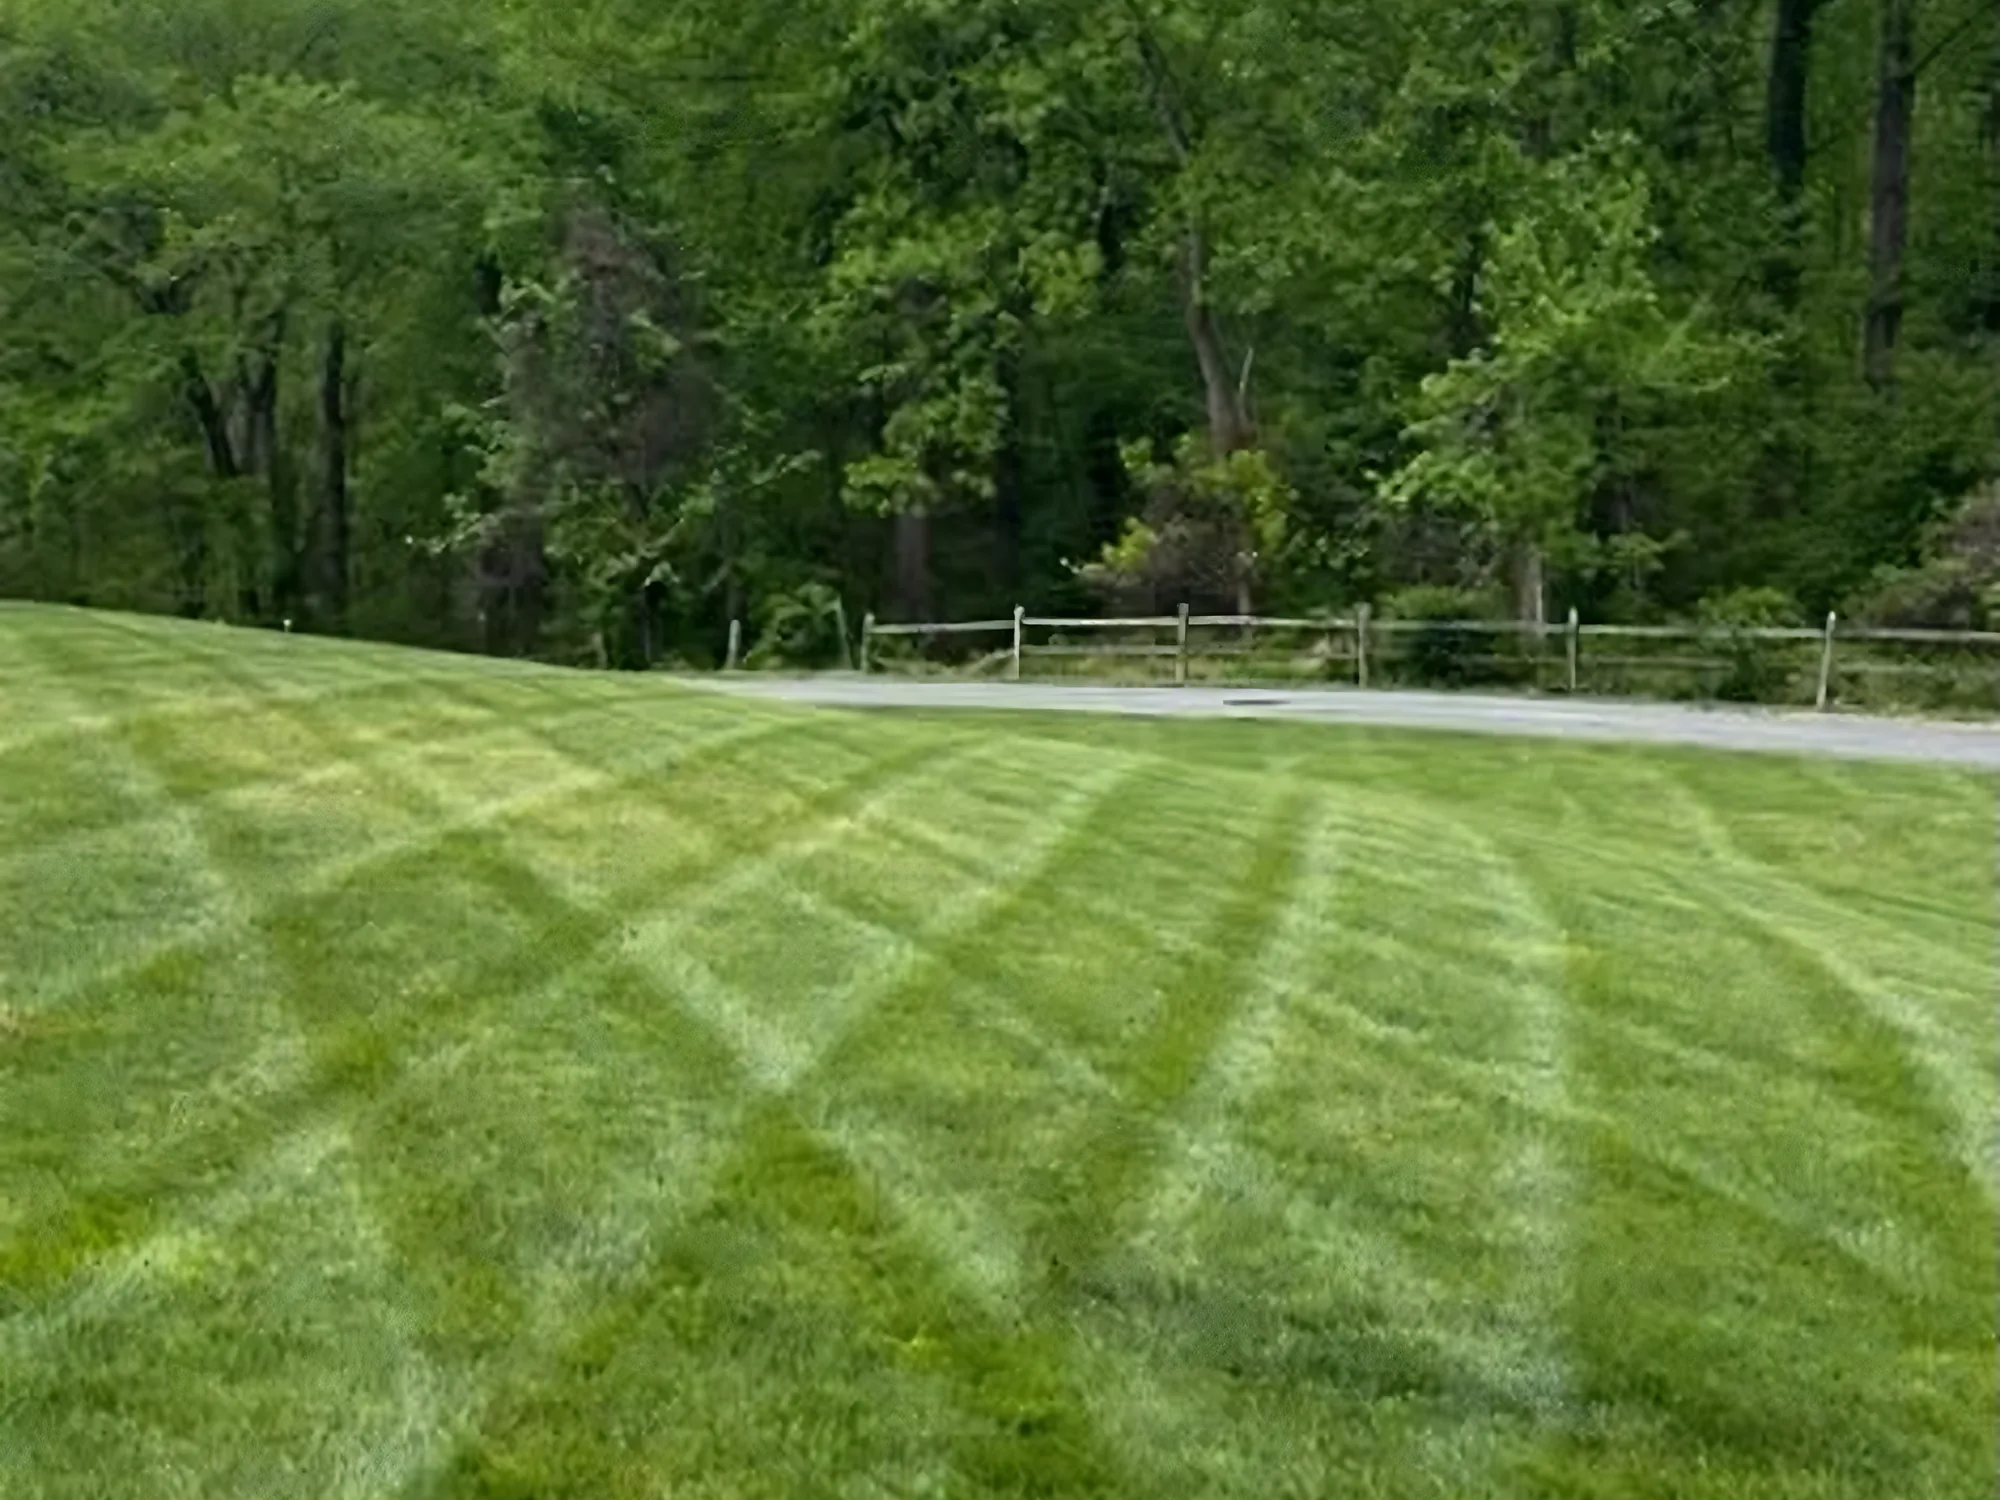
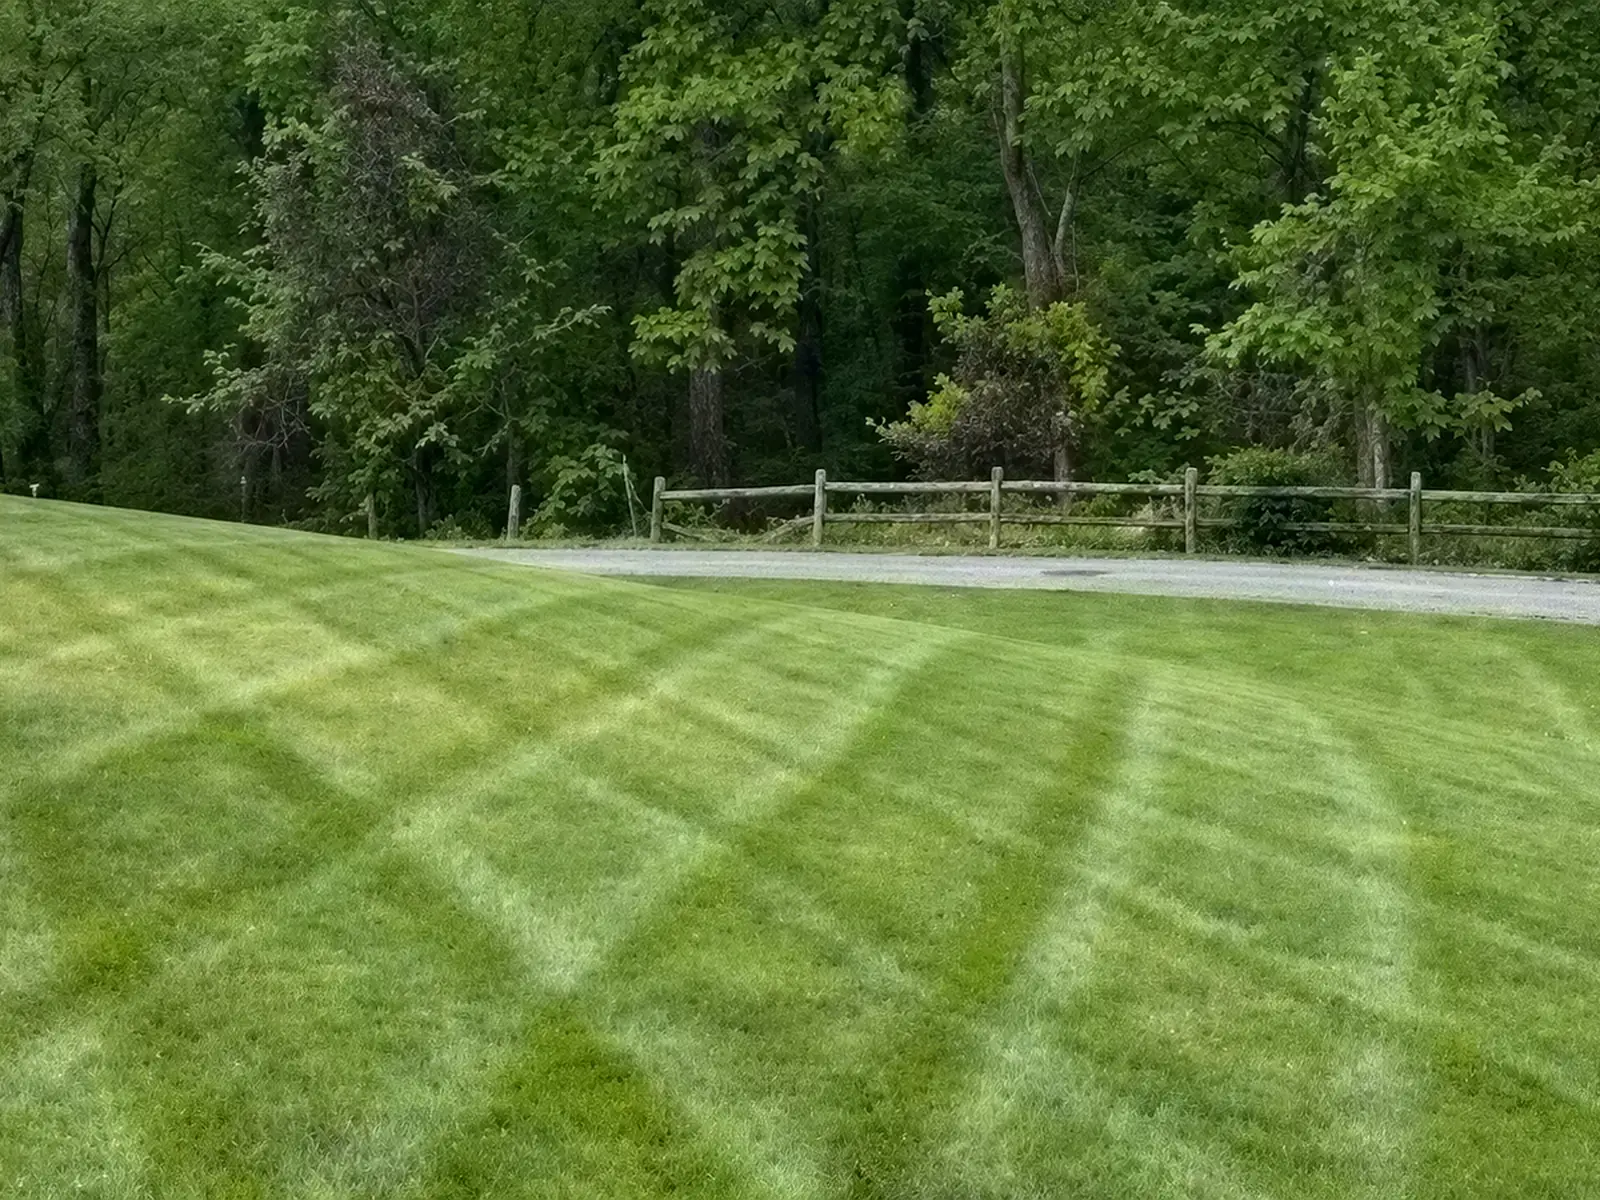
Use new 4K service photos for lawn care and landscaping (1600x1200)
Claude-Session: https://claude.ai/code/session_011FRW9YHbL17wgnhnkQQcxf

diff --git a/index.html b/index.html
@@ -505,7 +505,7 @@
   <div class="svx-stage" style="--ch:337">
     <div class="svx-art deco-l">
       <svg class="svx-frame" viewBox="0 0 724 337" preserveAspectRatio="none" aria-hidden="true"><path d="M-106.2 342.8 C-104 346.7, -98.3 350.4, -95.4 352.2 C-92.6 354, -91.3 353.3, -89.1 353.6 C-86.8 353.9, -84.1 354.1, -81.8 354.1 C-79.6 354.1, -78.5 354, -75.8 353.7 C-73 353.4, -70 353.1, -65.5 352.2 C-61.1 351.4, -57.8 350.9, -49 348.4 C-40.2 345.9, -20 339.6, -12.5 337.4 C-5.1 335.2, -6.7 335.7, -4.4 335.2 C-2.2 334.6, -4.3 334.9, 1.1 334.1 C6.4 333.3, 20.5 331.6, 27.8 330.4 C35 329.3, 40.4 328.1, 44.6 327.2 C48.7 326.3, 48.3 326.4, 52.6 325 C56.9 323.6, 66.1 320.3, 70.3 318.9 C74.6 317.4, 75.5 317.1, 78.2 316.3 C80.8 315.5, 83.6 314.7, 86.3 314 C89 313.3, 92.3 312.7, 94.5 312.3 C96.8 311.9, 97.5 311.8, 99.8 311.6 C102.2 311.4, 106.1 311.2, 108.6 311.2 C111.1 311.3, 112.5 311.5, 114.6 311.7 C116.7 311.9, 119 312.3, 121.3 312.7 C123.5 313.1, 121.1 312.3, 127.9 314 C134.6 315.6, 153.6 320.6, 161.8 322.5 C169.9 324.4, 173 324.8, 176.7 325.5 C180.5 326.1, 182 326.2, 184.5 326.5 C187 326.7, 189.3 326.8, 191.7 326.8 C194.1 326.8, 196 326.8, 199.1 326.7 C202.1 326.6, 206.2 326.4, 209.8 326.1 C213.4 325.8, 216.5 325.5, 220.7 324.9 C224.9 324.4, 230.3 323.6, 235 322.7 C239.7 321.9, 244.5 320.9, 249.1 319.8 C253.7 318.7, 258.3 317.4, 262.8 316.1 C267.2 314.8, 272 313.2, 275.8 311.9 C279.5 310.6, 281.7 309.7, 285.4 308.2 C289.1 306.7, 292.3 305.5, 297.9 302.7 C303.5 300, 314.6 294, 319 291.6 C323.5 289.1, 322.1 289.9, 324.8 288.1 C327.6 286.3, 332.5 283, 335.5 280.9 C338.6 278.7, 340.9 276.8, 343 275.2 C345 273.6, 345.4 273.3, 347.6 271.3 C349.8 269.3, 354.1 265.2, 356.2 263.1 C358.3 261, 358.7 260.5, 360.4 258.6 C362.1 256.7, 364.6 253.7, 366.2 251.8 C367.8 249.8, 368.5 249, 370 247 C371.5 245, 373.1 242.9, 375.2 239.7 C377.4 236.4, 380.6 231.4, 383 227.4 C385.3 223.3, 387.9 218.2, 389.3 215.3 C390.7 212.5, 390.7 212.4, 391.5 210.3 C392.3 208.3, 393.5 205, 394.2 202.9 C395 200.8, 395.2 199.9, 395.8 197.8 C396.5 195.6, 397.3 192.6, 397.9 190 C398.5 187.4, 398.8 187.4, 399.5 182.1 C400.3 176.9, 401.9 164.1, 402.5 158.4 C403 152.7, 402.9 151, 403 147.9 C403.1 144.8, 403.2 142.5, 403.1 139.9 C403.1 137.2, 403.1 134.6, 403 131.9 C402.9 129.3, 402.7 126.6, 402.4 124 C402.2 121.4, 401.8 118.5, 401.4 116.3 C401.1 114.2, 400.8 113.1, 400.4 111 C399.9 108.9, 399.1 105.9, 398.4 103.8 C397.8 101.8, 397.4 100.7, 396.6 98.7 C395.8 96.7, 394.7 94.2, 393.5 91.8 C392.4 89.5, 391 87.1, 389.6 84.8 C388.3 82.5, 386.6 79.9, 385.3 77.9 C383.9 76, 383.2 75, 381.7 73.1 C380.3 71.3, 378 68.5, 376.4 66.7 C374.8 64.8, 373.9 63.9, 372.2 62.1 C370.4 60.4, 367.8 57.9, 365.9 56.2 C364.1 54.6, 363.6 54.1, 361.1 52.3 C358.6 50.5, 353.6 47.1, 351 45.4 C348.3 43.7, 347.7 43.5, 345.3 42.3 C343 41.1, 339.7 39.5, 336.8 38.1 C333.8 36.8, 330.3 35.4, 327.5 34.4 C324.8 33.4, 323.9 33.1, 320.4 32 C317 31, 311.5 29.4, 306.9 28.3 C302.2 27.2, 296.7 26.2, 292.3 25.5 C287.9 24.8, 284.6 24.5, 280.7 24.2 C276.7 23.9, 272.7 23.6, 268.7 23.6 C264.7 23.5, 260.3 23.7, 256.8 23.9 C253.3 24.2, 250.7 24.7, 247.7 25.2 C244.7 25.7, 242.4 26.1, 238.7 27 C235.1 27.9, 232.3 28.5, 225.6 30.4 C219 32.2, 204.9 36.5, 199.1 38.1 C193.2 39.8, 193.5 39.7, 190.8 40.4 C188 41.1, 185.5 41.7, 182.8 42.2 C180.1 42.8, 177.8 43.3, 174.5 43.8 C171.2 44.2, 165.7 44.6, 163.2 44.8 C160.6 44.9, 160.5 44.8, 159.3 44.8 C158.1 44.7, 157.8 44.8, 156 44.6 C154.2 44.5, 151.9 44.4, 148.6 43.9 C145.3 43.4, 141 42.8, 136.3 41.7 C131.5 40.7, 128.2 39.9, 120.2 37.8 C112.3 35.6, 95.8 30.8, 88.6 28.9 C81.5 27.1, 80.4 27.1, 77.3 26.5 C74.1 25.9, 72.7 25.7, 69.8 25.3 C66.9 25, 63.5 24.7, 59.9 24.6 C56.4 24.5, 51.8 24.4, 48.5 24.5 C45.3 24.5, 46.3 24.4, 40.3 24.8 C34.4 25.3, 19.1 26.6, 12.9 27 C6.8 27.4, 6.1 27.3, 3.3 27.4 C0.5 27.4, -2 27.4, -3.9 27.3 C-5.9 27.2, -6.2 27.2, -8.5 26.9 C-10.8 26.6, -7.6 27.6, -17.8 25.5 C-28 23.4, -59.8 16.4, -69.9 14.4 C-80.1 12.3, -76.5 13.6, -78.7 13.4 C-80.8 13.3, -81.2 13.2, -82.8 13.3 C-84.4 13.4, -86.9 13.6, -88.5 13.9 C-90 14.2, -91.1 14.5, -92.1 15.2 C-93.1 15.9, -94 17.2, -94.5 18.4 C-95.1 19.5, -94.9 18.8, -95.2 21.9 C-95.5 25, -96.1 32.5, -96.4 36.8 C-96.7 41.1, -96.7 41.4, -96.9 47.6 C-97.1 53.8, -97.3 61.5, -97.8 74.1 C-98.2 86.6, -98.8 105.7, -99.6 122.9 C-100.4 140.2, -101.4 159.4, -102.4 177.6 C-103.4 195.9, -104.7 215.1, -105.7 232.4 C-106.6 249.7, -107.7 268.8, -108.2 281.5 C-108.8 294.1, -108.8 301.9, -108.9 308.2 C-109.1 314.5, -109 315.9, -108.9 319.3 C-108.9 322.7, -109.1 324.5, -108.6 328.4 C-108.2 332.3, -108.4 338.8, -106.2 342.8 Z"/></svg>
-      <img class="svx-photo svx-cover px" src="img/service-sections/lawn-care-mowing-photo.webp" width="2000" height="1500" alt="A freshly mowed lawn with crisscross stripes, edged by a road, a split-rail fence and tall green trees" loading="lazy" decoding="async" style="--x:0;--y:16;--w:408;--h:322;clip-path:url(#svx-clip-lawn-care-mowing)">
+      <img class="svx-photo svx-cover px" src="img/service-sections/lawn-care-mowing-photo.webp" width="1600" height="1200" alt="A freshly mowed lawn with crisscross stripes, edged by a road, a split-rail fence and tall green trees" loading="lazy" decoding="async" style="--x:0;--y:16;--w:408;--h:322;clip-path:url(#svx-clip-lawn-care-mowing)">
       <img class="svx-leaf" src="img/service-sections/home-cleaning-leaf.svg" alt="" loading="lazy" style="--x:352;--y:262;--w:44;rotate:25deg;--dur:7.8s;--delay:-5s">
     </div>
     <img class="svx-leaf at-r" src="img/service-sections/power-washing-leaf.svg" alt="" loading="lazy" style="--x:663;--y:17;--w:61">
@@ -528,7 +528,7 @@
   <div class="svx-stage" style="--ch:351">
     <div class="svx-art deco-r">
       <svg class="svx-frame" viewBox="0 0 724 351" preserveAspectRatio="none" aria-hidden="true"><path d="M826 347.3 C825.1 349.7, 823.8 350.6, 822.8 351.5 C821.8 352.3, 821 352.3, 820 352.5 C819 352.8, 818.5 353, 816.8 353 C815.2 353.1, 812.1 352.9, 810.2 352.8 C808.3 352.6, 807.8 352.6, 805.5 352.1 C803.1 351.6, 800.2 351, 795.9 349.8 C791.7 348.6, 788.8 347.8, 780 344.7 C771.1 341.5, 750.4 333.7, 742.6 330.9 C734.8 328.2, 736 328.8, 733.2 328 C730.3 327.2, 734.4 327.7, 725.6 326.3 C716.9 324.9, 689.3 321, 680.8 319.7 C672.4 318.4, 678.5 319.3, 674.9 318.4 C671.3 317.5, 663.1 315.2, 659.3 314.3 C655.4 313.3, 654.4 313.1, 651.8 312.6 C649.2 312, 645.9 311.5, 643.4 311.2 C641 310.9, 639.3 310.7, 637.2 310.6 C635.1 310.5, 633 310.4, 630.9 310.4 C628.7 310.4, 626.4 310.5, 624.2 310.7 C622 310.8, 619.9 311, 617.6 311.4 C615.2 311.7, 612.6 312.2, 610 312.8 C607.4 313.3, 611.2 311.9, 602.2 314.6 C593.2 317.3, 566.5 325.9, 556 329 C545.5 332.2, 543.4 332.6, 539.2 333.7 C535 334.8, 533.6 335, 530.8 335.5 C528 336, 527.2 336.2, 522.6 336.7 C518.1 337.2, 509.2 338.1, 503.4 338.5 C497.6 338.8, 493 338.9, 487.8 338.9 C482.6 338.9, 477.5 338.8, 472.4 338.5 C467.3 338.3, 461.7 337.7, 457.3 337.3 C452.9 336.8, 450.2 336.4, 445.9 335.7 C441.6 334.9, 435.7 333.8, 431.5 332.9 C427.2 331.9, 426.9 332.1, 420.3 330 C413.7 327.8, 398.3 322.4, 391.9 319.9 C385.4 317.4, 384.5 316.5, 381.6 315.1 C378.7 313.7, 377.7 313.2, 374.5 311.4 C371.2 309.6, 365.7 306.4, 362.2 304.2 C358.7 302, 355.9 299.9, 353.4 298.1 C350.9 296.3, 349.9 295.6, 347.3 293.4 C344.7 291.1, 340.1 287, 337.6 284.6 C335 282.2, 334.2 281.3, 332.2 279.1 C330.2 276.9, 327.5 273.7, 325.7 271.5 C323.8 269.3, 322.9 268.1, 321.2 265.8 C319.5 263.5, 317.9 261.5, 315.5 257.7 C313.1 254, 309.1 247.2, 306.9 243.4 C304.8 239.6, 303.9 237.4, 302.8 235 C301.6 232.6, 301 231.1, 300.2 229.1 C299.4 227.1, 298.7 225.5, 297.9 223.1 C297.1 220.6, 296 217.1, 295.3 214.6 C294.7 212.2, 294.3 210.8, 293.8 208.3 C293.3 205.7, 292.7 202.5, 292.2 199.5 C291.8 196.6, 291.4 193.6, 291.1 190.6 C290.8 187.6, 290.7 184.7, 290.5 181.8 C290.4 178.8, 290.4 175.9, 290.4 173.1 C290.4 170.2, 290.3 169.1, 290.6 164.5 C290.9 159.8, 291.7 149.6, 292.2 144.9 C292.7 140.3, 293 139.3, 293.5 136.5 C294 133.7, 294.5 130.9, 295.2 128.2 C295.8 125.5, 296.7 122.5, 297.4 120.2 C298.1 117.9, 298.4 116.7, 299.3 114.5 C300.1 112.4, 301.4 109.4, 302.3 107.3 C303.3 105.2, 303.9 104, 305 102 C306.2 100, 307.7 97.6, 309.3 95.3 C310.8 93.1, 312.5 90.8, 314.2 88.6 C315.9 86.4, 318 84, 319.6 82.3 C321.1 80.5, 321.2 80.2, 323.7 77.9 C326.2 75.5, 331.6 70.6, 334.6 68.2 C337.6 65.8, 339.6 64.6, 341.7 63.3 C343.8 61.9, 345.2 61.1, 347.1 60 C348.9 59, 350.7 58.1, 352.6 57.2 C354.5 56.3, 356.5 55.5, 358.5 54.7 C360.5 53.9, 362.5 53.2, 364.7 52.5 C366.9 51.8, 369.2 51.2, 371.6 50.5 C373.9 49.9, 376.4 49.3, 378.9 48.8 C381.5 48.2, 382.8 47.9, 386.9 47.2 C391 46.5, 397.8 45.4, 403.4 44.7 C409.1 44.1, 412.3 43.5, 420.8 43.1 C429.2 42.8, 447.6 42.6, 454.4 42.6 C461.3 42.6, 460 43, 461.9 43.1 C463.7 43.3, 463.8 43.3, 465.6 43.6 C467.4 44, 469.7 44.3, 472.8 45.1 C475.8 45.8, 476.8 45.9, 483.8 48.2 C490.8 50.5, 508.2 56.7, 514.7 58.8 C521.2 61, 520.2 60.5, 522.9 61.2 C525.6 62, 528.1 62.6, 530.9 63.2 C533.7 63.7, 537.3 64.2, 539.5 64.5 C541.7 64.8, 542.1 64.9, 544.3 65 C546.5 65.1, 549.7 65.2, 552.7 65.1 C555.6 64.9, 559 64.6, 561.9 64.2 C564.9 63.7, 566.7 63.5, 570.4 62.6 C574 61.7, 579.5 60.3, 583.9 58.9 C588.3 57.6, 588.5 57.6, 596.7 54.4 C605 51.3, 625.4 42.9, 633.4 39.8 C641.3 36.7, 641.5 36.9, 644.5 35.9 C647.6 35, 648.9 34.7, 651.7 34 C654.6 33.3, 658 32.5, 661.6 31.9 C665.2 31.3, 669.9 30.6, 673.2 30.2 C676.6 29.7, 675.5 29.8, 681.7 29.4 C687.9 28.9, 702.8 28, 710.4 27.3 C718 26.5, 723.9 25.5, 727.5 24.9 C731 24.3, 729.4 24.4, 731.6 23.8 C733.8 23.2, 732.8 23.7, 740.6 21.1 C748.3 18.4, 769.2 10.8, 778.2 7.9 C787.2 4.9, 790.1 4.3, 794.5 3.2 C798.9 2.1, 801.9 1.7, 804.7 1.3 C807.5 0.9, 808.6 0.8, 811 0.8 C813.4 0.8, 816.3 0.6, 819.2 1.1 C822.1 1.7, 825.2 1.6, 828.4 4.1 C831.6 6.5, 836.5 12.9, 838.5 15.9 C840.4 18.9, 839.4 18.3, 840.1 22.1 C840.8 25.9, 841.9 34.1, 842.4 38.8 C843 43.5, 843 43.7, 843.5 50.2 C843.9 56.7, 844.7 64.7, 845 77.7 C845.4 90.6, 845.8 110.2, 845.5 128 C845.3 145.7, 844.5 165.4, 843.5 184.1 C842.5 202.9, 840.9 222.5, 839.4 240.2 C837.9 257.9, 835.9 277.4, 834.5 290.2 C833.2 303.1, 832.1 310.9, 831.3 317.3 C830.5 323.6, 830.3 325, 829.8 328.3 C829.3 331.6, 829 334.1, 828.3 337.2 C827.7 340.4, 826.9 345, 826 347.3 Z"/></svg>
-      <img class="svx-photo px" src="img/service-sections/landscaping-photo.webp" width="2000" height="1500" alt="A freshly mulched garden bed with neatly trimmed shrubs and tall arborvitae beside a home, edged by a green lawn" loading="lazy" decoding="async" style="--x:282.3;--y:20.8;--w:441.7;clip-path:url(#svx-clip-landscaping)">
+      <img class="svx-photo px" src="img/service-sections/landscaping-photo.webp" width="1600" height="1200" alt="A freshly mulched garden bed with neatly trimmed shrubs and tall arborvitae beside a home, edged by a green lawn" loading="lazy" decoding="async" style="--x:282.3;--y:20.8;--w:441.7;clip-path:url(#svx-clip-landscaping)">
       <img class="svx-leaf" src="img/service-sections/power-washing-leaf.svg" alt="" loading="lazy" style="--x:300;--y:52;--w:42;rotate:-140deg;--dur:8.2s;--delay:-2s">
     </div>
     <img class="svx-leaf at-l" src="img/service-sections/landscaping-leaf.svg" alt="" loading="lazy" style="--x:0;--y:293;--w:43">
